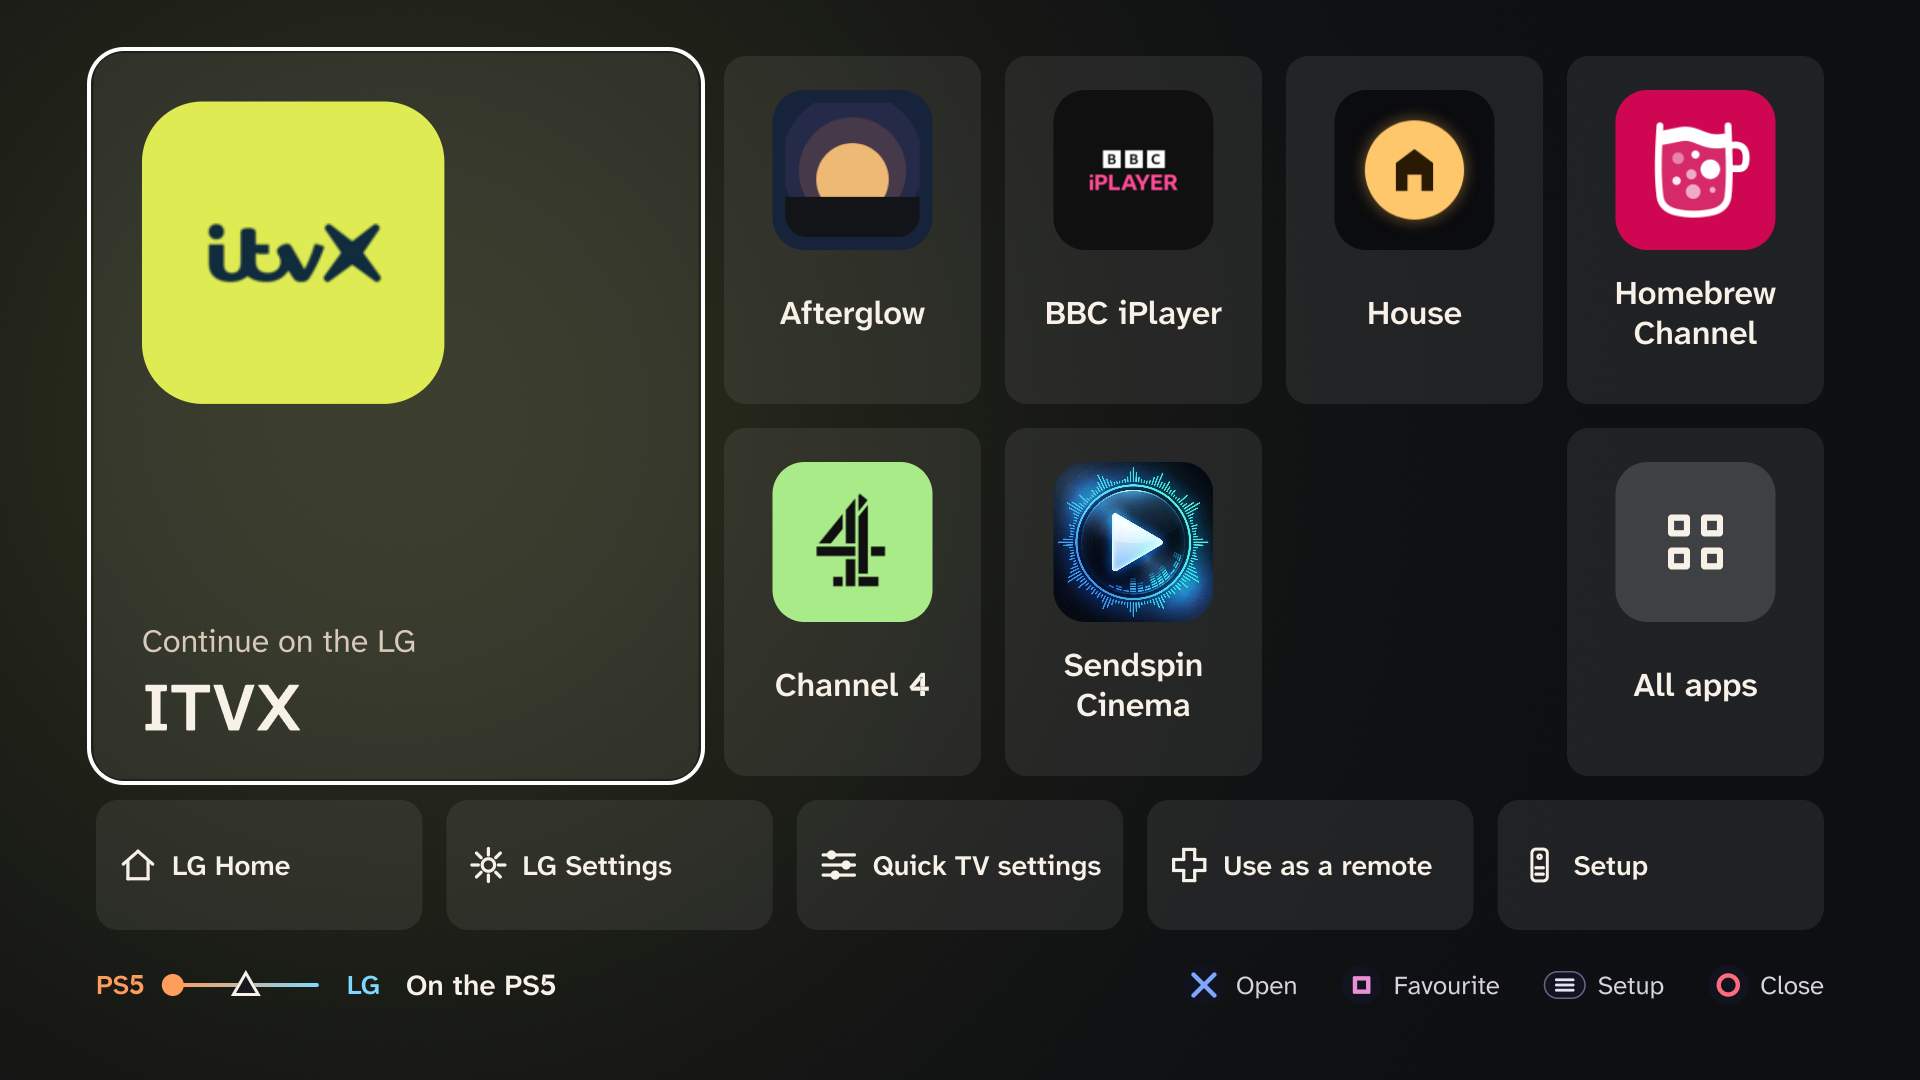
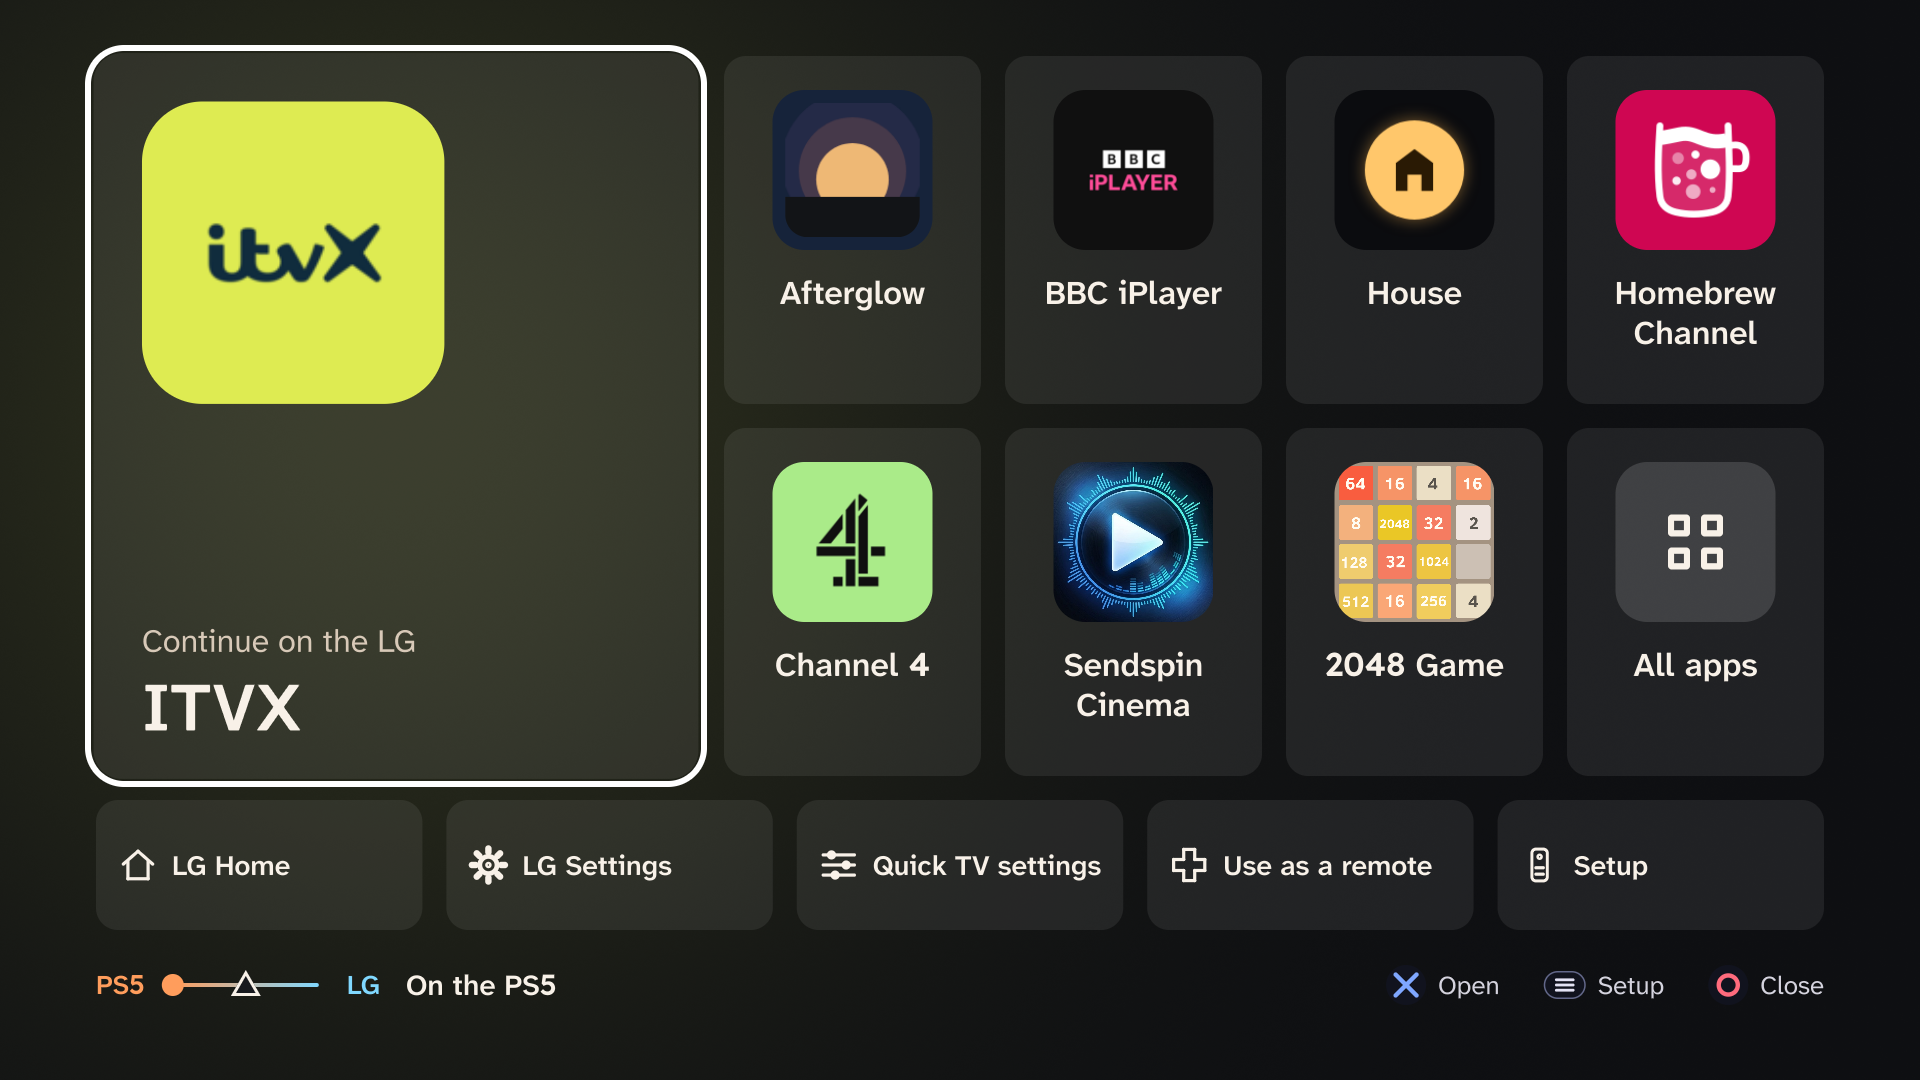
Docs: README images and changelog for the redesign

diff --git a/CHANGELOG.md b/CHANGELOG.md
@@ -2,9 +2,9 @@
 
 ## Unreleased
 
-- The launcher fits one screen: a big Continue tile, a grid of favourites and recent apps ending in All apps, and a
-  dock with LG Home, LG Settings, Quick TV settings, the remote and Setup. Favourites past the grid's seven places stay
-  in All apps.
+- The launcher fits one screen: a big Continue tile, a grid of favourites, recent apps and then the TV's others ending
+  in All apps, and a dock with LG Home, LG Settings, Quick TV settings, the remote and Setup. Favourites past the grid's
+  seven places stay in All apps.
 - Title and hints shrink to one compact line each, so pages have about a third more room. All apps shows four whole
   rows of six, and never cuts a row. Setup lists its rows in two columns, so they all show at once.
 - A beam at the foot of the screen shows where the controller goes, the PS5 or the LG, beside the same thing in words.
@@ -13,6 +13,10 @@
 - Quick TV settings is a sheet over the launcher, with all seven settings on screen.
 - Digits are drawn in Lexend, as on Android TV: Atkinson's slashed zero read as "Ø" from the sofa.
 - LG Settings, Quick TV settings and Setup each have their own icon.
+- Hints only offer what the buttons really do on the focused item. Options is labelled for where it goes.
+- Failures read as failures, in the error colour. Square only acts on All apps, where the star shows that it worked.
+- Disconnect and forget token takes two presses.
+- The digits lost the seams that showed inside some of them, and Favourites use a star in place of On and Off.
 
 ## 1.0.1 (27 October 2026)
 

diff --git a/README.md b/README.md
@@ -27,7 +27,7 @@ which does the same from an Android TV box's remote.
 - **A launcher for the LG, all on one screen.** The last LG app you used as a big "Continue on the LG" tile, your
   favourites and recently used apps beside it with their own LG icons, All apps, and a dock with LG Home, LG
   Settings, Quick TV settings, the remote and Setup. Nothing needs scrolling. The grid shows the first seven apps,
-  favourites before recent ones, and the rest stay in All apps.
+  favourites first, then recent ones, then the TV's others, and the rest stay in All apps.
 - **Quick TV settings.** Input, picture mode, OLED brightness, energy saving, sound mode, sleep timer and logo
   dimming, changed with Left and Right on a sheet over the launcher, so a picture change shows on the tiles behind it.
   A change is sent half a second after the last step.
